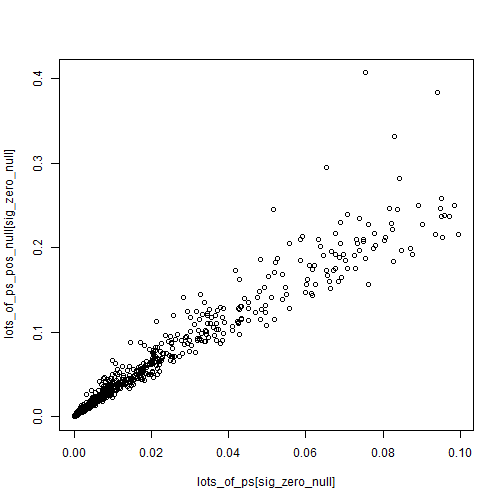
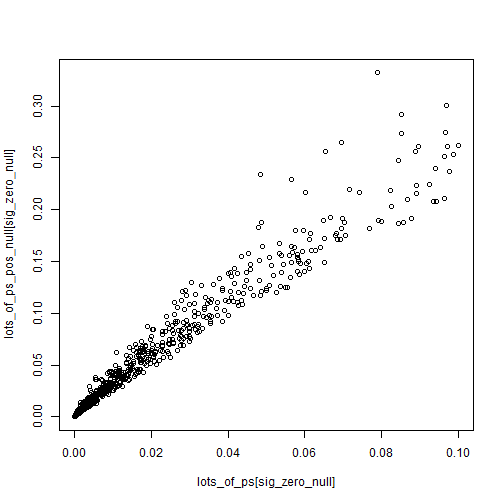
Edits for clarity

diff --git a/_posts/2017-01-07-zscores_and_pvalues.md b/_posts/2017-01-07-zscores_and_pvalues.md
@@ -6,13 +6,13 @@ published: true
 status: publish
 ---
  
-[Andrew Gelman makes a point he's made many times before](http://andrewgelman.com/2017/01/07/we-fiddle-while-rome-burns-p-value-edition/). P-values are not informative and rely on a strongly non-linear transformation of the data and evidence exists only if that transformation crosses the magical 0.05 boundary. I'm just going to restate his argument a little clearer.
+[Andrew Gelman makes a point he's made many times before](http://andrewgelman.com/2017/01/07/we-fiddle-while-rome-burns-p-value-edition/). P-values are not informative and rely on a strongly non-linear transformation of the data and for some reason evidence exists only if that transformation crosses the magical 0.05 boundary. I'm just going to restate a part of his argument using a little simulation.
  
 Gelman writes:
  
 > Relative to the null hypothesis, the difference between a p-value of .13 (corresponding to a z-score of 1.5), and a p-value of .003 (corresponding to a z-score of 3), is huge; it's the difference between a data pattern that could easily have arisen by chance alone, and a data pattern that it is highly unlikely to have arisen by chance. But, once you allow nonzero effects (as is appropriate in the sorts of studies that people are interested in doing in the first place), the difference between p-values of 1.5 [Gelman means 0.13] and 3 [Gelman means 0.003] is no big deal at all, it's easily attributable to random variation. I don't mind z-scores so much, but the p-value transformation does bad things to them.
  
-We can more easily show how p-values distort z-scores and what he means by some small non-zero effect as the null in two graphs.
+We can more easily show how p-values distort z-scores and what he means by some small non-zero effect as the null in a few figures.
  
 To show this, let's use [Raghu Parthasarathy's original simulation](https://eighteenthelephant.wordpress.com/2016/04/29/how-do-i-hate-p-values-let-me-count-the-ways/).
  
@@ -23,16 +23,20 @@ lots_of_zs <- numeric(iterations)
 lots_of_ps <- numeric(iterations)
 lots_of_zs_pos_null <- numeric(iterations)
 lots_of_ps_pos_null <- numeric(iterations)
+ 
 for(i in 1:iterations) {
   control_vals <- rnorm(10, mean = 1, sd = 0.75)
   drug1_vals <- rnorm(10, mean = 2, sd = 0.75)
  
+  ## H0: \mu_1 - \mu_0 = 0
   t_test_out <- t.test(drug1_vals, control_vals)
  
   lots_of_ps[i] <- t_test_out$p.value
   lots_of_zs[i] <- t_test_out$statistic
   
+  ## H0: \mu_1 - \mu_0 = 0.2
   t_test_out_pos_null <- t.test(drug1_vals, control_vals, mu = 0.2)
+  
   lots_of_ps_pos_null[i] <- t_test_out_pos_null$p.value
   lots_of_zs_pos_null[i] <- t_test_out_pos_null$statistic
 }
@@ -41,7 +45,7 @@ plot(lots_of_zs, lots_of_ps)
 
 ![plot of chunk unnamed-chunk-1](/figures/unnamed-chunk-1-1.png)
  
-This is what Gelman means by a non-informative, highly non-linear transformation of the data. While the difference in z-scores (1 to 2) for example, does not seem that great, the associated difference in p-values is huge.
+We see clearly how z-scores (x-axis) map to p-values (y-axis). This is what Gelman means by a non-informative, highly non-linear transformation of the data. While the difference in z-scores (1 to 2) for example, does not seem that great, the associated difference in p-values is huge.
  
 If we shift the null just a little and allow a small difference of 0.2, then we get the following.
  
@@ -67,7 +71,7 @@ plot(lots_of_ps, lots_of_ps_pos_null)
 
 ![plot of chunk unnamed-chunk-3](/figures/unnamed-chunk-3-2.png)
  
-Z-scores are somewhat robust to small changes in the null, while p-values can swing wildly. Of course what we end up caring about is the values close to 0.05 for some reason.
+Z-scores are somewhat robust to small changes in the null (from 0 to 0.2), while p-values can swing wildly. Of course what we end up caring about is the values close to 0.05 for some reason.
  
 
 {% highlight r %}
